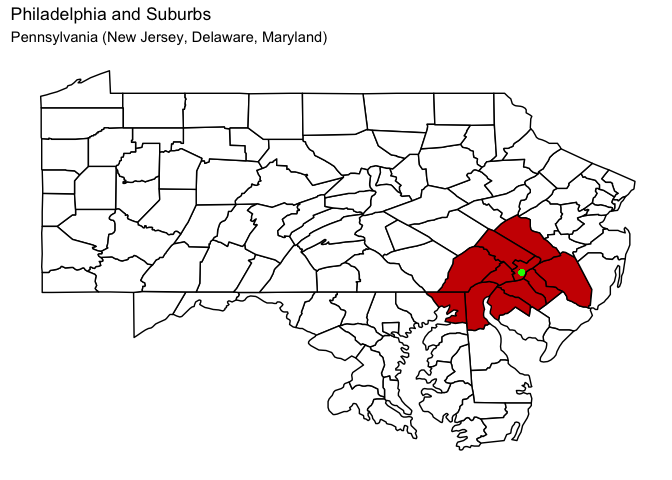
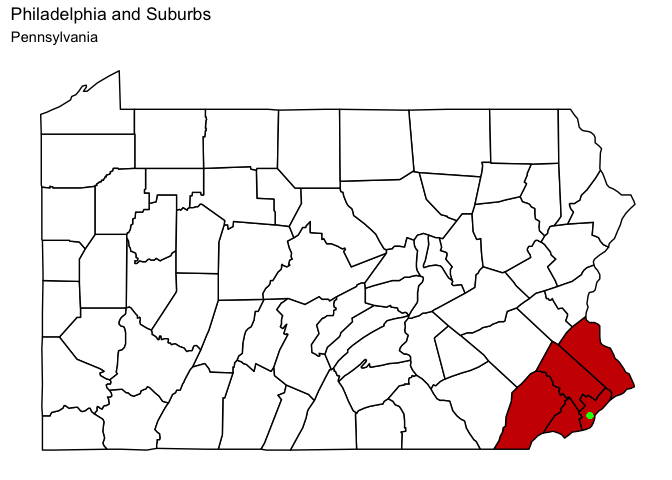
maps updated with counties

diff --git a/Ty-Work/final-report-graphics/intro-maps.md b/Ty-Work/final-report-graphics/intro-maps.md
@@ -86,9 +86,8 @@ usa_map
 ``` r
 us_counties <- map_data("county")
 
-philly_map <- us_counties %>% filter(region %in% c("pennsylvania", "delaware", "maryland", "new jersey")) %>%
-  mutate(county_used = ifelse(subregion %in% c("new castle", "cecil", "burlington", "camden", "gloucester", "salem", "bucks", "chester", "delaware", "philadelphia"), "y",
-                              ifelse(region == "pennsylvania" & subregion == "montgomery", "y", "n"))) %>% 
+philly_map <- us_counties %>% filter(region == "pennsylvania") %>%
+  mutate(county_used = ifelse(subregion %in% c("bucks", "chester", "delaware", "philadelphia", "montgomery"), "y", "n")) %>% 
   ggplot(mapping = aes(x = long, 
                        y = lat, 
                        group = group, fill = county_used)
@@ -102,7 +101,7 @@ philly_map <- us_counties %>% filter(region %in% c("pennsylvania", "delaware", "
         axis.ticks = element_blank(),
         panel.background = element_blank()) +
   labs(title = "Philadelphia and Suburbs",
-       subtitle = "Pennsylvania (New Jersey, Delaware, Maryland)") +
+       subtitle = "Pennsylvania") +
   geom_point(y = 39.9526, x = -75.1652, color = "green", size = 1.5) 
 
 philly_map
@@ -140,7 +139,7 @@ nyc_map
 
 ``` r
 la_map <- us_counties %>% filter(region == "california") %>%
-  mutate(county_used = ifelse(subregion %in% c("ventura", "orange", "kern", "riverside", "san bernardino", "los angeles"), "y", "n")) %>% 
+  mutate(county_used = ifelse(subregion %in% c("ventura", "orange", "kern", "san bernardino", "los angeles"), "y", "n")) %>% 
   ggplot(mapping = aes(x = long, 
                        y = lat, 
                        group = group, fill = county_used)
